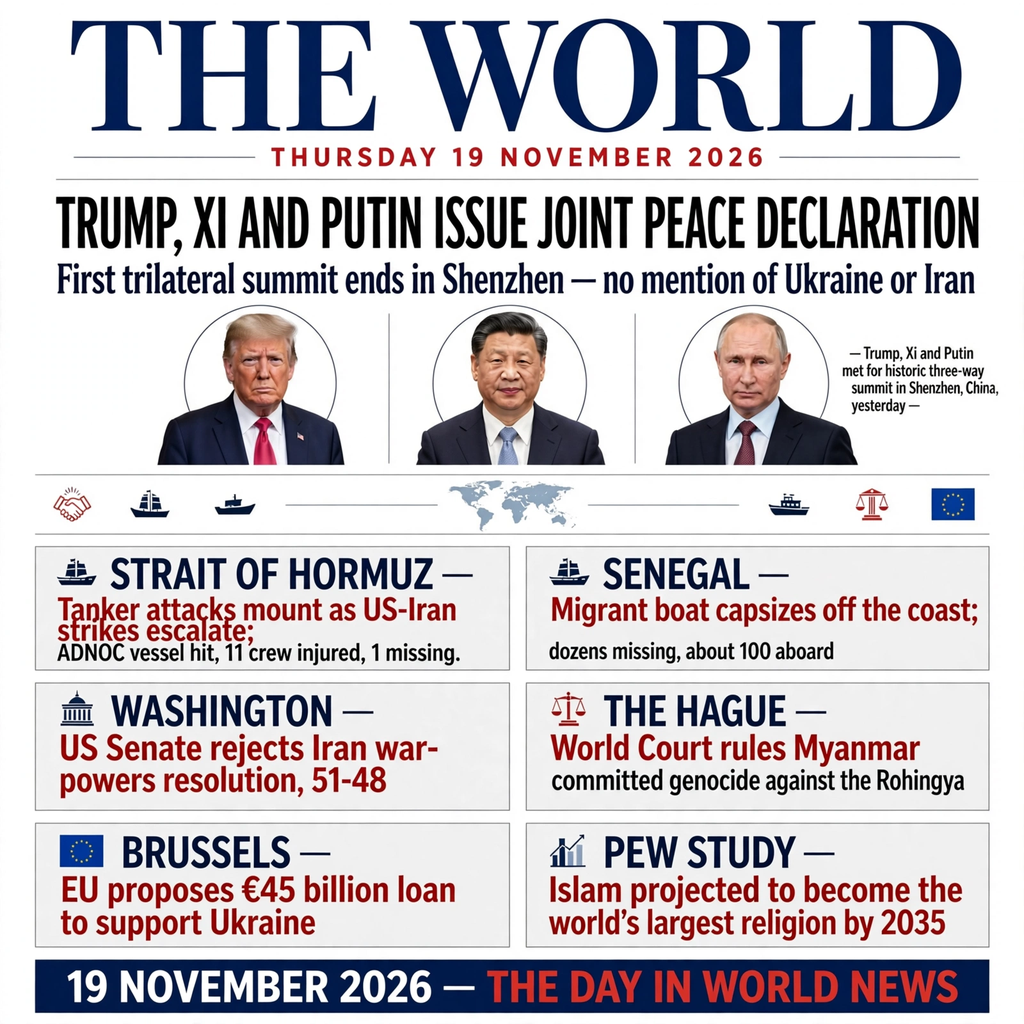
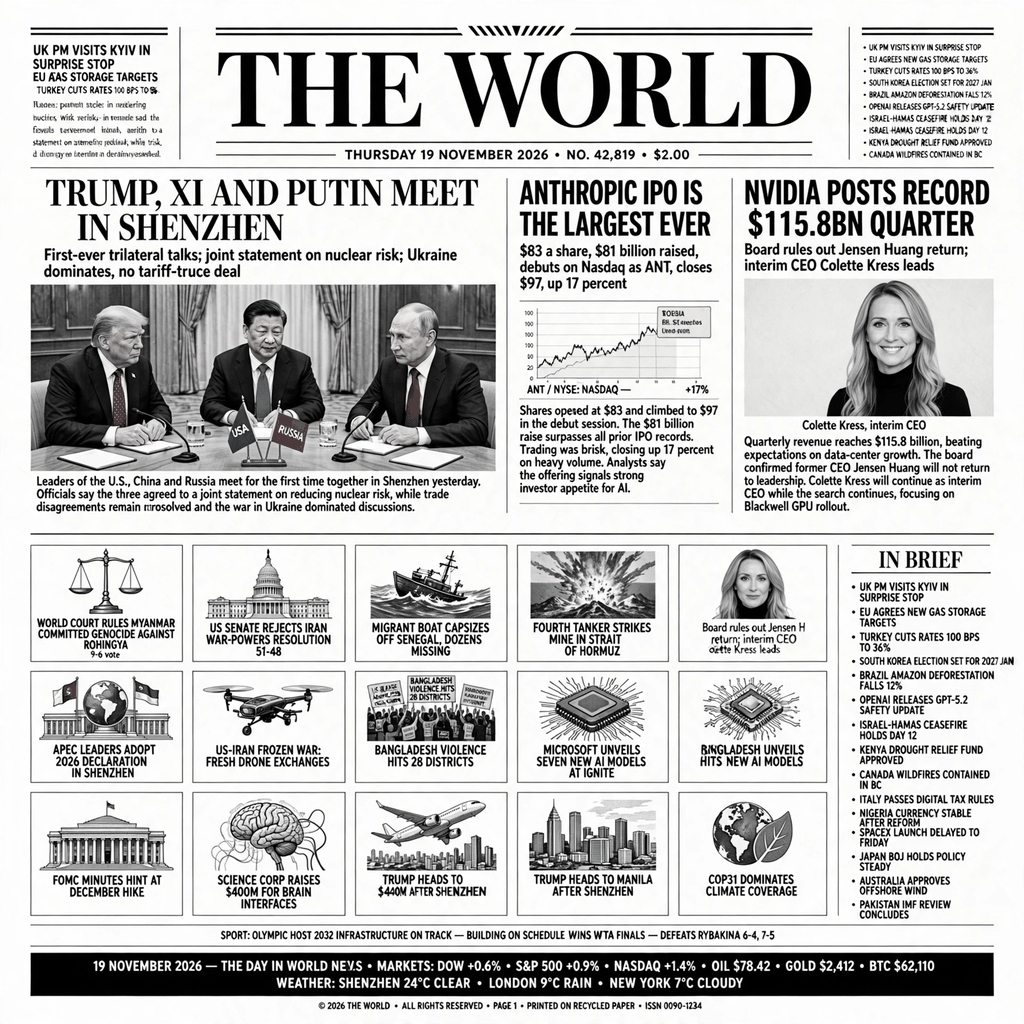
Ganti entry.png dan README.md dengan versi yang dikoreksi

diff --git a/README.md b/README.md
@@ -4,7 +4,7 @@
 [![rank](https://make.fun/badge/news-image-20261119/achalyn/news-image-20261119/rank.svg)](https://make.fun/bounty/news-image-20261119/leaderboard?utm_source=github&utm_medium=readme&utm_campaign=news-image-20261119)
 [![reward](https://make.fun/badge/news-image-20261119/achalyn/news-image-20261119/reward.svg)](https://make.fun/bounty/news-image-20261119?utm_source=github&utm_medium=readme&utm_campaign=news-image-20261119)
 
-A one-page newspaper front page summing up the world's news of Thursday 19 November 2026: the Trump–Xi–Putin joint peace declaration after the first trilateral summit in Shenzhen, tanker attacks in the Strait of Hormuz as US–Iran strikes escalate, a migrant boat capsizing off Senegal, the US Senate rejecting the Iran war-powers resolution 51–48, the World Court ruling that Myanmar committed genocide against the Rohingya, the EU's proposed €45 billion loan for Ukraine, and a Pew study projecting Islam to become the world's largest religion by 2035.
+A one-page newspaper front page summing up the world's news of Thursday 19 November 2026 — 12 illustrated cards and an In Brief column, 30+ headlines. The lead is the first-ever Trump–Xi–Putin trilateral meeting in Shenzhen (joint statement on nuclear risk; Ukraine dominates; no tariff-truce deal). The other heroes are Anthropic's record IPO ($83 a share, $81 billion raised, the largest listing ever, debuting on Nasdaq as ANT) and Nvidia's record $115.8 billion quarter as its board rules out Jensen Huang's return. Also inside: the World Court ruling that Myanmar committed genocide against the Rohingya (9–6), the US Senate rejecting the Iran war-powers resolution 51–48, a migrant boat capsizing off Senegal, a fourth tanker striking a mine in the Strait of Hormuz, the APEC 2026 declaration, Microsoft's seven new AI models, and more.
 
 ## Run it
 
@@ -13,6 +13,10 @@ python3 main.py
 ```
 
 The program copies `entry.png` (1024×1024, under 1 MiB) to `/output/entry.png`, using only the Python standard library, with no network access. It is deterministic: two runs write byte-identical output.
+
+## This version
+
+This is the second version of the entry (resubmitted before the deadline). The first version's lead headline wrongly called the Shenzhen meeting a "joint peace declaration" and missed the day's two biggest stories, Anthropic's IPO and Nvidia's record quarter. This version corrects the lead, adds both stories as heroes, and replaces three unverified cards with verified ones.
 
 ---
 
